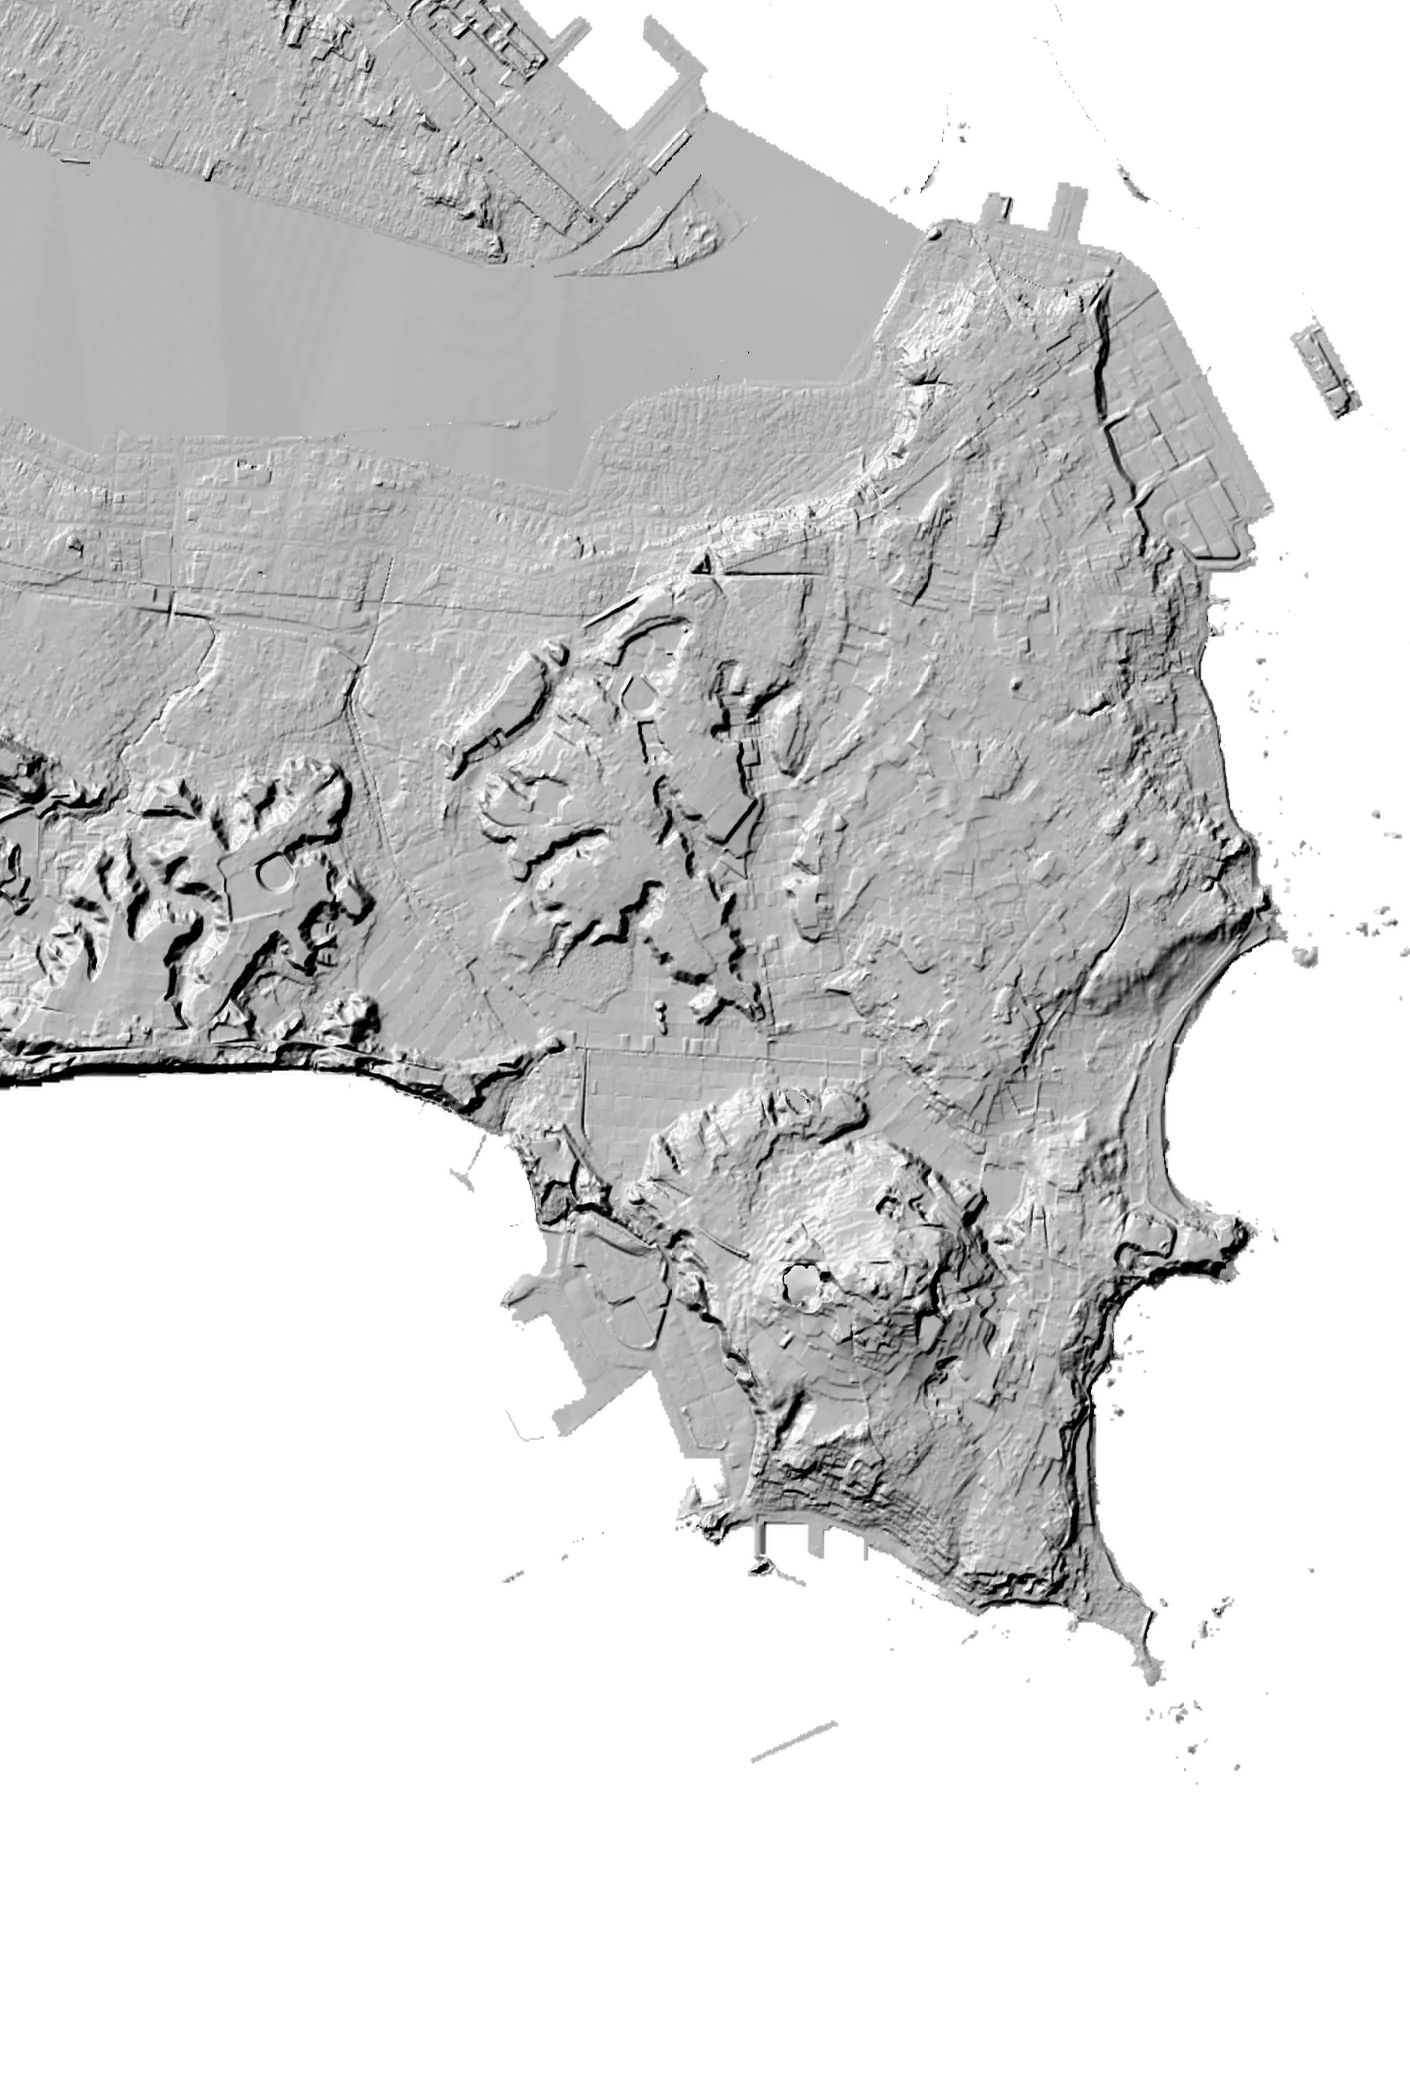
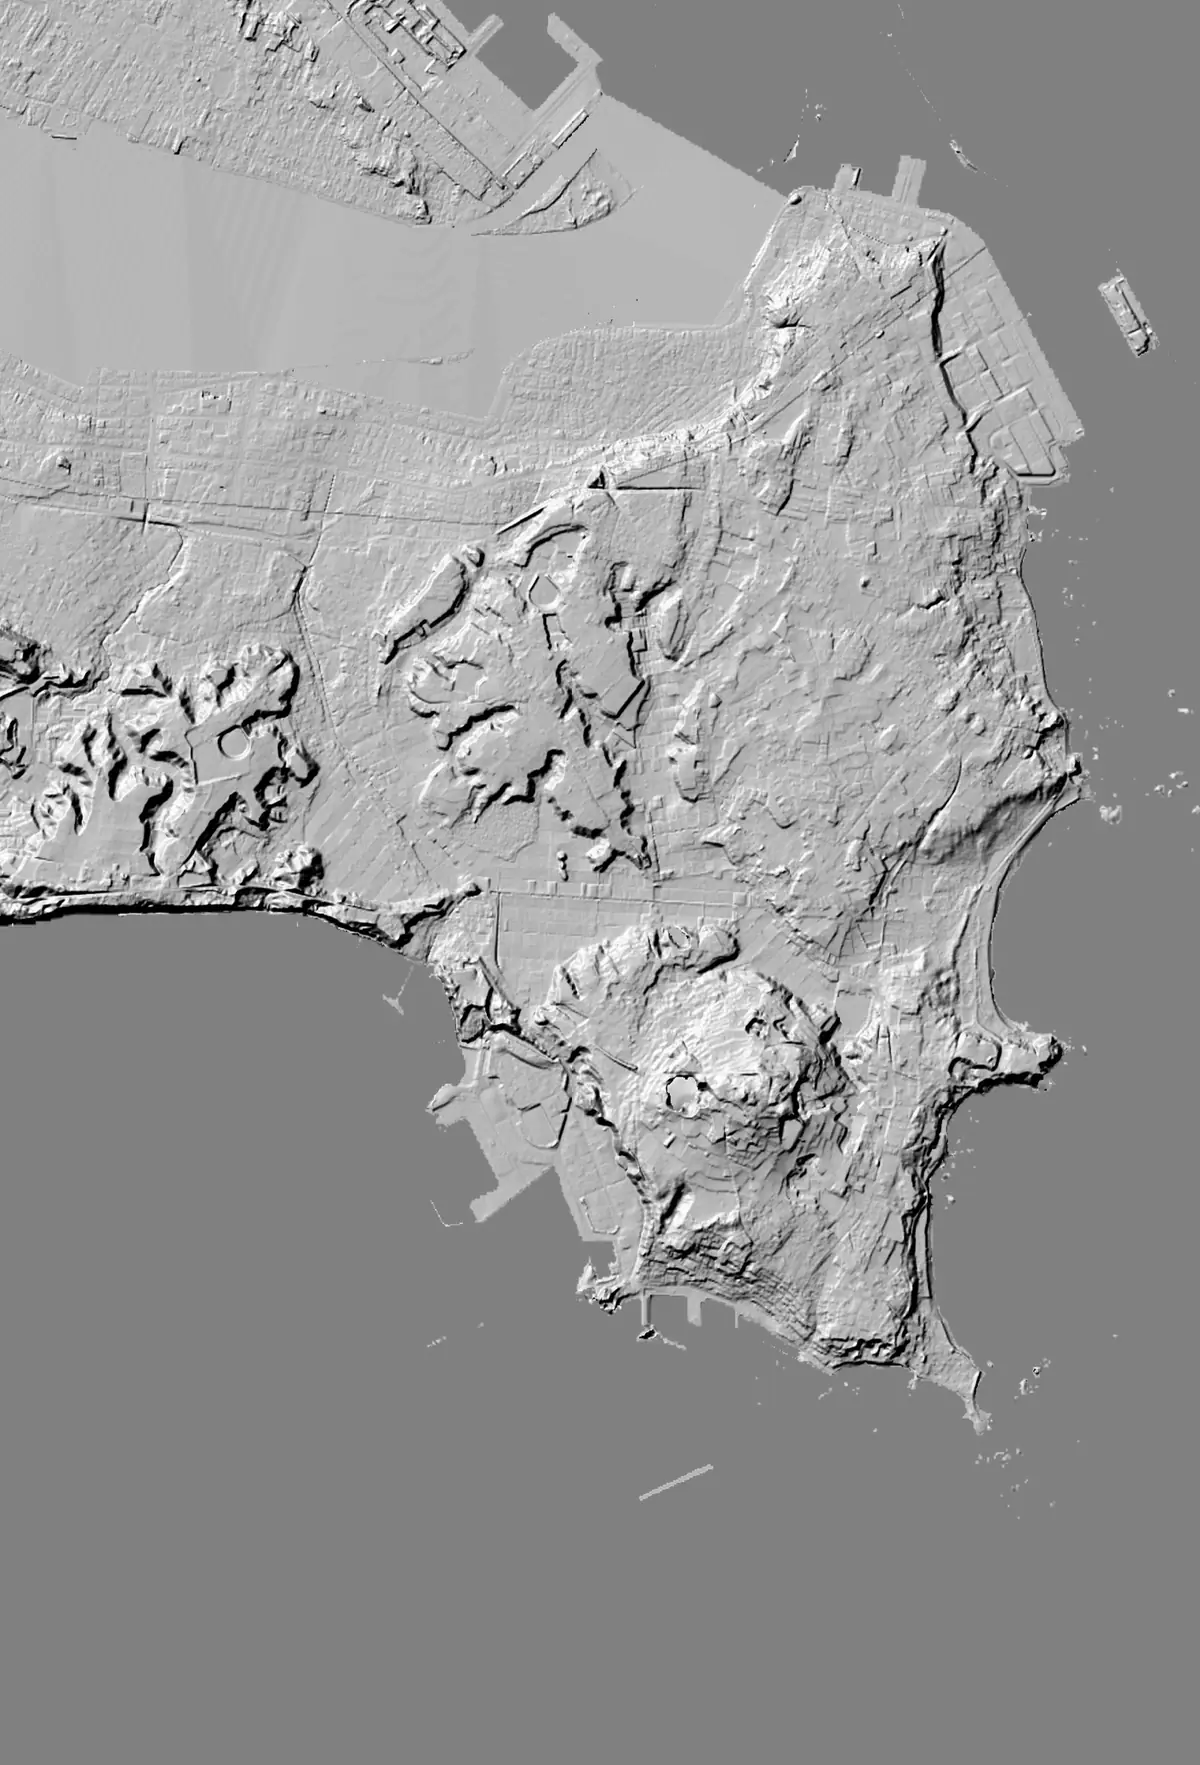
陰影の絵を半分以下にし、地図が出てから取りに行く
スマートフォンで開くと重い、という声。測ると 4G 相当（CPU も 4 分の 1）で
地図が出るまで 2.7 秒・転送 450KB あり、そのうち陰影の絵 1 枚が 241KB だった。

絵を作り直す tools/shrink-hillshade.py を足す。やることは 2 つ。
透明を捨てる（海のところが透明なぶん alpha を持っていた。この絵は overlay で
重ねるだけのもので、50% の灰は overlay では何もしない色なので、透明を灰で
埋めれば見た目を変えずに alpha を捨てられる）。それと横 1200 画素に縮める
（地図の座標系は横 1000。寄ると甘くなるが、読む対象ではないうえ、
寄りきると本体が薄くして消す）。

  銚子電鉄   241KB → 130KB   展開後の画素 11.2MB → 6.4MB
  有楽町線  1137KB → 244KB   展開後の画素 28.1MB → 5.5MB

あわせて、絵そのものは地図が出てから取りに行くようにする。場所だけ先に作って
href をあとから入れるので、この層を探している側（寄ったときに薄くする処理）は
見失わない。地形・線路・スポットの JSON と帯域を取り合わせない。

diff --git a/js/main.js b/js/main.js
@@ -226,6 +226,25 @@ function diamondMark(glyph, color, className) {
 
 /** JSON ファイルを読む */
 async function loadJson(path) {
+  /*
+   * index.html の <head> が、この JS の到着を待たずに頼んでおいたぶん。
+   *
+   * 携帯電話の回線では、この main.js が届くまでに数百ミリ秒かかる。
+   * そのあいだ回線が空いているのに、データの取得はここまで始まらなかった。
+   * 先に頼んでおいたものがあれば、それを受け取る。
+   * 失敗していたら、下でふつうに取り直す（先読みは速さのためのものであって、
+   * 頼りにするものではない）。
+   */
+  const early = window.EARLY && window.EARLY[path];
+  if (early) {
+    delete window.EARLY[path];
+    try {
+      return await early;
+    } catch {
+      // 取り直す
+    }
+  }
+
   const response = await fetch(path);
   if (!response.ok) throw new Error(`${path} を読めなかった（HTTP ${response.status}）`);
   return response.json();
@@ -418,11 +437,12 @@ function drawTerrain(container, terrain) {
 
   /*
    * 地形の陰影（国土地理院の陰影起伏図タイルを貼り合わせたもの。tools/fetch-hillshade.js）。
-   * 色の帯の上に重ねて立体感を出す。海の部分は透明なので、下の水色がそのまま透ける。
+   * 色の帯の上に重ねて立体感を出す。
    *
-   * WebP なのは大きさのため。同じ絵が PNG では 1,447KB、WebP では 241KB で、
-   * これ 1 枚が初回読み込みの 84% を占めていた。駅でモバイル回線で開く作品なので、
-   * ここは効く。もとが不透明度 0.85 で重ねる背景の陰影なので、劣化は目に見えない。
+   * WebP なのは大きさのため。同じ絵が PNG では 1,447KB、いまの WebP では 130KB。
+   * これ 1 枚が初回読み込みの大半を占めるので、駅でモバイル回線で開く作品としては
+   * ここがいちばん効く。作り方と、そこまで小さくできる理由は
+   * tools/shrink-hillshade.py に書いてある。
    */
   /*
    * 陰影の絵を持たない路線では、この層そのものを作らない。
@@ -432,17 +452,29 @@ function drawTerrain(container, terrain) {
    * ピンクがかった）。無いものは置かない。
    */
   if (currentLine.hillshade !== false) {
-    container.appendChild(
-      svg('image', {
-        href: `${currentLine.dir}/terrain-hillshade.webp`,
-        x: 0,
-        y: 0,
-        width: terrain.projection.width,
-        height: terrain.projection.height,
-        preserveAspectRatio: 'none',
-        class: 'hillshade',
-      })
-    );
+    const shade = svg('image', {
+      x: 0,
+      y: 0,
+      width: terrain.projection.width,
+      height: terrain.projection.height,
+      preserveAspectRatio: 'none',
+      class: 'hillshade',
+    });
+    container.appendChild(shade);
+
+    /*
+     * 絵そのものは、地図が出てから取りに行く。
+     *
+     * 場所だけ先に作って href をあとから入れるのは、この層を探している側
+     * （拡大したときに薄くする処理）が、あるはずの層を見失わないため。
+     *
+     * 携帯電話の回線では、この 130KB が地形・線路・スポットの JSON と
+     * 帯域を取り合う。陰影は「地図が読める」ためには要らないので、
+     * 譲る。手の空いたところで入れれば、見え方は変わらない。
+     */
+    const load = () => shade.setAttribute('href', `${currentLine.dir}/terrain-hillshade.webp`);
+    if (typeof requestIdleCallback === 'function') requestIdleCallback(load, { timeout: 2000 });
+    else setTimeout(load, 200);
   }
 }
 

diff --git a/tools/shrink-hillshade.py b/tools/shrink-hillshade.py
@@ -1,0 +1,77 @@
+# -*- coding: utf-8 -*-
+"""
+配信する陰影起伏図（terrain-hillshade.webp）を、元の PNG から作る。
+
+これまでは PIL の一行（README に書いてあった）で PNG をそのまま WebP に
+していた。それだと銚子電鉄で 241KB、有楽町線で 1,137KB あり、スマートフォンで
+開いたときの転送量の大半をこれ 1 枚が占めていた。展開後の画素も 11MB / 28MB で、
+半透明の重ね合わせ（mix-blend-mode: overlay）と合わさって描画も重い。
+
+ここでやることは 2 つ。
+
+1. 透明を捨てる。
+   陰影の絵は海のところが透明で、そのぶん alpha を持っている。ところが
+   WebP は alpha を失わずに持つので、そこが大きさに効く。この絵は
+   overlay で重ねるためだけのもので、**50% の灰は overlay では何もしない色**
+   （backdrop がそのまま残る）。だから透明のところを 50% 灰で埋めれば、
+   見た目を変えずに alpha を丸ごと捨てられる。
+
+2. 小さくする。
+   地図の座標系は横 1000。画面いっぱいに広げても、いまどきの携帯電話で
+   横 1200 画素あれば足りる。元の絵はそれより大きい（銚子 1410・有楽町 2784）。
+   拡大していくと甘くなるが、これは地形の陰影であって読む対象ではない。
+
+使い方:
+    python tools/shrink-hillshade.py data/source/terrain-hillshade.png data/choshi/terrain-hillshade.webp
+    python tools/shrink-hillshade.py data/source/yurakucho-hillshade.png data/yurakucho/terrain-hillshade.webp
+
+元の PNG を作るのは tools/fetch-hillshade.js（国土地理院の陰影起伏図タイルを
+貼り合わせる）。PNG のほうは配信しない（.gitignore に入れてある）。
+"""
+
+import os
+import sys
+
+from PIL import Image
+
+# 横幅の上限（画素）。地図の座標系（横 1000）に対して少し余裕を持たせる
+MAX_WIDTH = 1200
+
+# WebP の品質。陰影は輪郭の無いなめらかな絵なので、低めでも粗が出にくい
+QUALITY = 72
+
+# overlay 合成で「何もしない」明るさ。透明だったところをこれで埋める
+NEUTRAL = 128
+
+
+def build(src_path, out_path):
+    source = Image.open(src_path).convert('LA')
+    shade, alpha = source.split()
+
+    # 透明なところを 50% 灰に置きかえて、alpha を捨てる
+    flat = Image.composite(shade, Image.new('L', source.size, NEUTRAL), alpha)
+
+    width, height = source.size
+    if width > MAX_WIDTH:
+        height = round(height * MAX_WIDTH / width)
+        width = MAX_WIDTH
+        flat = flat.resize((width, height), Image.LANCZOS)
+
+    # WebP に灰色 1 色の形式は無いので、同じ値を 3 つ並べて RGB にする。
+    # 中身が同じぶんは圧縮で畳まれるので、大きさへの響きはほとんど無い
+    Image.merge('RGB', (flat, flat, flat)).save(
+        out_path, 'WEBP', quality=QUALITY, method=6
+    )
+
+    before = os.path.getsize(src_path) / 1024
+    after = os.path.getsize(out_path) / 1024
+    print('%s  %dx%d  %.0f KB → %s  %dx%d  %.0f KB'
+          % (src_path, source.size[0], source.size[1], before,
+             out_path, width, height, after))
+
+
+if __name__ == '__main__':
+    if len(sys.argv) != 3:
+        print(__doc__)
+        sys.exit(1)
+    build(sys.argv[1], sys.argv[2])
